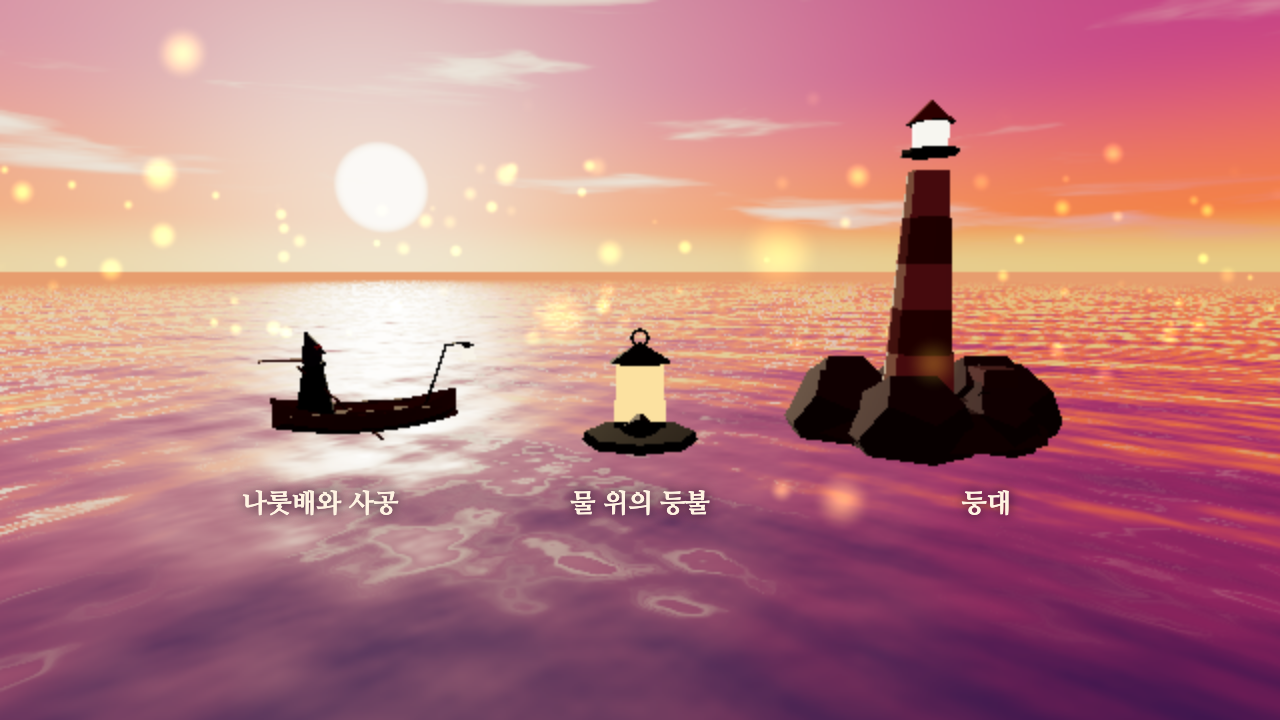
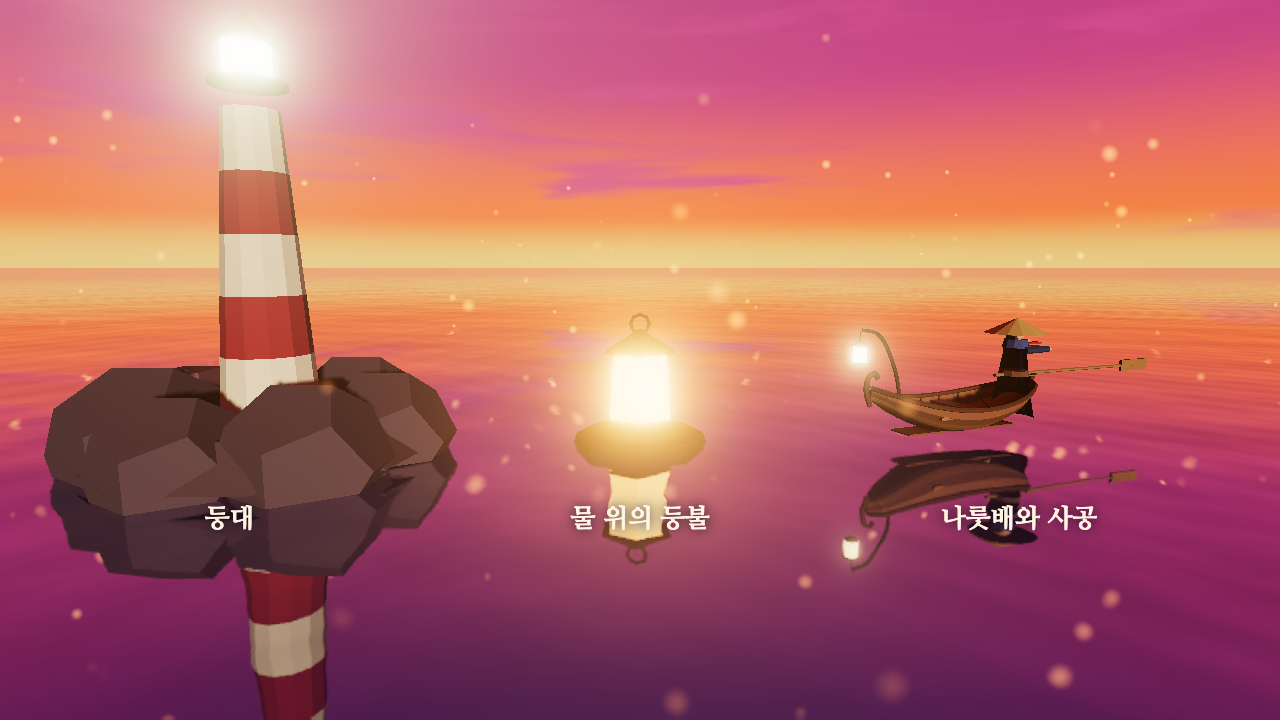
iteration 2: boat and ferryman remodel, dock and post collision
Brief: design/game-brief.md

diff --git a/prototypes/lanterns-at-dusk/index.html b/prototypes/lanterns-at-dusk/index.html
@@ -427,53 +427,93 @@ reedMat.onBeforeCompile = sh => {
   });
   reeds.castShadow = true; heads.castShadow = true; scene3.add(reeds, heads);
 }
-// Old mooring posts in the first basin, and the dock the trip starts from.
+// Old mooring posts in the first basin, and the dock the trip starts from. Both stop the boat.
+const POSTS = [], BOXES = [];
 for (let i = 0; i < 12; i++) {
   const a = hash2(i, 5) * Math.PI * 2, r = 12 + hash2(i, 6) * 22, x = Math.cos(a) * r, z = Math.sin(a) * r;
   if (Math.hypot(x - START.x, z - START.z) < 8) continue;
-  const p = mesh(new THREE.CylinderGeometry(0.16, 0.2, 3 + hash2(i, 7) * 2, 6), C.woodDark, x, 0.6, z, scene3);
+  const p = mesh(new THREE.CylinderGeometry(0.16, 0.2, 3 + hash2(i, 7) * 2, 6), C.woodDark, x, 0.6, z, scene3); POSTS.push([x, z, 0.25]);
   p.rotation.set((hash2(i, 8) - 0.5) * 0.3, 0, (hash2(i, 9) - 0.5) * 0.3);
 }
 {
   const dock = new THREE.Group(); scene3.add(dock);
-  for (let k = 0; k < 9; k++) mesh(new THREE.BoxGeometry(2.4, 0.12, 0.5), k % 2 ? C.wood : 0x6a3e2c, 0, 0.75, 30 + k * 0.6, dock);
-  for (const [x, z] of [[-1.1, 30], [1.1, 30], [-1.1, 34.6], [1.1, 34.6]]) mesh(new THREE.CylinderGeometry(0.12, 0.12, 2.4, 6), C.woodDark, x, 0, z, dock);
+  // The dock reaches from deep water all the way up onto the bank.
+  let shoreZ = 30; while (shoreZ < 70 && waterSd(0, shoreZ, false) < 0.5) shoreZ += 0.5;
+  for (let z = 30, k = 0; z < shoreZ + 1.5; z += 0.6, k++) mesh(new THREE.BoxGeometry(2.4, 0.12, 0.5), k % 2 ? C.wood : 0x6a3e2c, 0, 0.75, z, dock);
+  for (let z = 30; z < shoreZ + 1; z += 2.4) for (const x of [-1.1, 1.1]) mesh(new THREE.CylinderGeometry(0.12, 0.12, 2.6, 6), C.woodDark, x, -0.2, z, dock);
   const post = mesh(new THREE.CylinderGeometry(0.06, 0.06, 2, 5), C.woodDark, 1.1, 1.8, 30, dock);
   mesh(new THREE.OctahedronGeometry(0.12, 0), glowMat(C.glow, 1.2), 1.1, 2.85, 30, dock);
+  BOXES.push([-1.3, 1.3, 29.6, shoreZ + 1.5]);
 }
 
-// The boat and the ferryman, who sculls with one long oar at the stern. Faces -z.
+// The boat and the ferryman. A plank-built skiff with ribs, a curled stem and a stern post; the
+// ferryman wears a wide reed hat and a long coat, and sculls one long oar over the stern. Faces -z.
+function tube(points, r, color, parent, seg = 24) {
+  const curve = new THREE.CatmullRomCurve3(points.map(p => new THREE.Vector3(...p)));
+  return mesh(new THREE.TubeGeometry(curve, seg, r, 6, false), color, 0, 0, 0, parent);
+}
 function makeBoat() {
-  const g = new THREE.Group(), N = 14, L = 1.9, pts = [], idx = [];
-  for (let i = 0; i <= N; i++) {
-    const z = -L + (2 * L * i) / N, t = Math.abs(z) / L, w = 0.72 * Math.pow(Math.max(0, 1 - t * t), 0.6), lift = 0.25 * t * t;
-    for (const [sx, y] of [[-1, 0.42], [-0.85, 0.1], [0, -0.12], [0.85, 0.1], [1, 0.42]]) pts.push(sx * w, y + lift * (y > 0.3 ? 1.4 : 1), z);
+  const g = new THREE.Group(), N = 26, K = 10, L = 1.95;
+  // Hull: cross-sections along the length, one colour per plank strake.
+  const half = z => { const t = Math.abs(z) / L; return { w: 0.74 * Math.pow(Math.max(0, 1 - t * t), 0.55), d: 0.5 * (1 - t * t * 0.55), lift: 0.32 * t * t * (z < 0 ? 1.25 : 1) }; };
+  const P = (i, k) => { const z = -L + 2 * L * i / N, { w, d, lift } = half(z), a = Math.PI * k / K; return [-Math.cos(a) * w, 0.45 + lift - Math.sin(a) * d * (1 - lift * 0.4), z]; };
+  const pos = [], col = [], shades = [new THREE.Color(0x8a5236), new THREE.Color(0x6e3f2a), new THREE.Color(0x9a6040)];
+  for (let i = 0; i < N; i++) for (let k = 0; k < K; k++) {
+    const a = P(i, k), b = P(i + 1, k), c = P(i, k + 1), d = P(i + 1, k + 1), sh = shades[Math.min(k, K - 1 - k) % 3];
+    for (const v of [a, b, c, c, b, d]) { pos.push(...v); col.push(sh.r, sh.g, sh.b); }
   }
-  for (let i = 0; i < N; i++) for (let j = 0; j < 4; j++) { const a = i * 5 + j, b = a + 5; idx.push(a, b, a + 1, a + 1, b, b + 1); }
-  const hull = new THREE.BufferGeometry(); hull.setAttribute('position', new THREE.Float32BufferAttribute(pts, 3)); hull.setIndex(idx); hull.computeVertexNormals();
-  mesh(hull, new THREE.MeshStandardMaterial({ color: C.wood, flatShading: true, side: THREE.DoubleSide, roughness: 0.85 }), 0, 0, 0, g);
-  for (const sx of [-1, 1]) { const rim = mesh(new THREE.BoxGeometry(0.06, 0.06, 3.0), 0x7a4a30, sx * 0.62, 0.45, 0, g); rim.rotation.y = sx * 0.02; }
-  for (const z of [-0.7, 0.5]) mesh(new THREE.BoxGeometry(1.15, 0.06, 0.32), 0x7a4a30, 0, 0.3, z, g);
-  // Lantern pole curving over the bow.
-  const pole = mesh(new THREE.CylinderGeometry(0.03, 0.035, 1.6, 5), C.woodDark, 0, 1.05, -1.45, g); pole.rotation.x = -0.35;
-  const arm = mesh(new THREE.CylinderGeometry(0.025, 0.025, 0.6, 5), C.woodDark, 0, 1.78, -1.95, g); arm.rotation.x = Math.PI / 2;
-  const lamp = new THREE.Group(); lamp.position.set(0, 1.55, -2.2); g.add(lamp);
-  mesh(new THREE.CylinderGeometry(0.13, 0.16, 0.32, 6), glowMat(C.paper, 3), 0, 0, 0, lamp);
-  mesh(new THREE.ConeGeometry(0.17, 0.12, 6), C.woodDark, 0, 0.22, 0, lamp);
-  // The ferryman: a tall hooded figure with a scarf that trails in the wind.
-  const man = new THREE.Group(); man.position.set(0, 0.25, 1.05); g.add(man);
-  mesh(new THREE.CylinderGeometry(0.18, 0.42, 1.25, 7), C.cloak, 0, 0.65, 0, man);
-  mesh(new THREE.CylinderGeometry(0.2, 0.2, 0.18, 7), C.cloakLight, 0, 1.3, 0, man);
-  mesh(new THREE.IcosahedronGeometry(0.17, 1), C.skin, 0, 1.5, -0.04, man);
-  const hood = mesh(new THREE.ConeGeometry(0.26, 0.55, 7), C.cloakLight, 0, 1.66, 0.04, man); hood.rotation.x = 0.25;
-  const scarf = new THREE.Group(); scarf.position.set(0.05, 1.32, 0.12); man.add(scarf);
-  const tail = mesh(new THREE.BoxGeometry(0.14, 0.04, 0.9), C.red, 0, 0, 0.45, scarf);
-  for (const sx of [-1, 1]) { const armM = mesh(new THREE.BoxGeometry(0.11, 0.55, 0.12), C.cloak, sx * 0.24, 1.0, -0.05, man); armM.rotation.x = -0.6; }
-  const oar = new THREE.Group(); oar.position.set(0.15, 1.05, 0.15); man.add(oar);
-  mesh(new THREE.CylinderGeometry(0.03, 0.03, 3.4, 5), 0x8a5a3a, 0, -1.5, 0, oar);
-  mesh(new THREE.BoxGeometry(0.05, 0.6, 0.22), 0x8a5a3a, 0, -3.1, 0, oar);
-  oar.rotation.x = 0.75;
-  return { group: g, lamp, oar, scarf, man };
+  const hull = new THREE.BufferGeometry(); hull.setAttribute('position', new THREE.Float32BufferAttribute(pos, 3));
+  hull.setAttribute('color', new THREE.Float32BufferAttribute(col, 3)); hull.computeVertexNormals();
+  mesh(hull, new THREE.MeshStandardMaterial({ vertexColors: true, flatShading: true, side: THREE.DoubleSide, roughness: 0.8 }), 0, 0, 0, g);
+  // Gunwales along both top edges, ribs inside, floorboards and two thwarts.
+  for (const k of [0, K]) tube(Array.from({ length: N + 1 }, (_, i) => { const p = P(i, k); return [p[0] * 1.02, p[1] + 0.03, p[2]]; }), 0.045, 0x5a3020, g, 40);
+  for (let i = 3; i < N - 2; i += 3) tube(Array.from({ length: K + 1 }, (_, k) => { const p = P(i, k); return [p[0] * 0.93, p[1] + 0.02, p[2]]; }), 0.022, 0x4a2a1c, g, 12);
+  mesh(new THREE.BoxGeometry(0.5, 0.03, 2.6), 0x7a4a30, 0, 0.0, 0.05, g);
+  for (const z of [-0.75, 0.25]) { const z0 = half(z); mesh(new THREE.BoxGeometry(z0.w * 1.9, 0.06, 0.3), 0x9a6644, 0, 0.36, z, g); }
+  // Curled stem at the bow and a stern post with the oarlock.
+  tube([[0, 0.55, -L - 0.02], [0, 0.85, -L - 0.12], [0, 1.08, -L - 0.08], [0, 1.15, -L + 0.06], [0, 1.06, -L + 0.12]], 0.05, 0x5a3020, g, 16);
+  tube([[0, 0.5, L - 0.05], [0, 0.72, L + 0.04], [0, 0.88, L + 0.06]], 0.06, 0x5a3020, g, 8);
+  mesh(new THREE.TorusGeometry(0.07, 0.02, 5, 8), 0x2e1a1e, 0, 0.92, L + 0.06, g).rotation.x = Math.PI / 2;
+  // Cargo: a crate, a sack and a coil of rope.
+  mesh(new THREE.BoxGeometry(0.42, 0.32, 0.36), 0x9a6a42, 0.12, 0.2, -0.3, g).rotation.y = 0.3;
+  const sack = mesh(new THREE.IcosahedronGeometry(0.22, 1), 0xb89a70, -0.2, 0.18, -0.45, g); sack.scale.set(1, 0.7, 1.2);
+  mesh(new THREE.TorusGeometry(0.15, 0.04, 5, 12), 0xc8a874, -0.15, 0.1, 0.62, g).rotation.x = Math.PI / 2;
+  // Lantern pole bending over the bow, the lamp on a short chain.
+  tube([[0.0, 0.4, -1.25], [0.0, 1.2, -1.45], [0.0, 1.85, -1.85], [0.0, 1.95, -2.25]], 0.035, 0x3a2218, g, 16);
+  const lamp = new THREE.Group(); lamp.position.set(0, 1.92, -2.25); g.add(lamp);
+  mesh(new THREE.CylinderGeometry(0.008, 0.008, 0.22, 3), 0x2e1a1e, 0, -0.11, 0, lamp);
+  const body = new THREE.Group(); body.position.y = -0.4; lamp.add(body);
+  mesh(new THREE.CylinderGeometry(0.12, 0.14, 0.3, 6), glowMat(C.paper, 3), 0, 0, 0, body);
+  mesh(new THREE.ConeGeometry(0.17, 0.12, 6), C.woodDark, 0, 0.21, 0, body);
+  mesh(new THREE.CylinderGeometry(0.14, 0.1, 0.05, 6), C.woodDark, 0, -0.17, 0, body);
+  // The stern oar: pivots on the oarlock, blade trailing in the water, handle toward the ferryman.
+  const oar = new THREE.Group(); oar.position.set(0, 0.95, L + 0.06); oar.rotation.order = 'YXZ'; g.add(oar);
+  mesh(new THREE.CylinderGeometry(0.03, 0.035, 4.2, 6), 0x9a6a42, 0, 0, 1.1, oar).rotation.x = Math.PI / 2;
+  mesh(new THREE.BoxGeometry(0.05, 0.24, 0.8), 0x9a6a42, 0, 0, 3.0, oar);
+  const handle = new THREE.Object3D(); handle.position.set(0, 0, -0.95); oar.add(handle);
+  // The ferryman.
+  const man = new THREE.Group(); man.position.set(0, 0.06, 1.5); g.add(man);
+  const coatPts = [[0.001, 1.52], [0.17, 1.5], [0.2, 1.38], [0.24, 1.15], [0.27, 0.85], [0.33, 0.5], [0.4, 0.15], [0.43, 0.02]].map(([r, y]) => new THREE.Vector2(r, y));
+  mesh(new THREE.LatheGeometry(coatPts, 10), C.cloak, 0, 0, 0, man);
+  mesh(new THREE.CylinderGeometry(0.26, 0.29, 0.1, 10), 0x6a4a3a, 0, 0.92, 0, man); // sash
+  const sashTail = mesh(new THREE.BoxGeometry(0.08, 0.4, 0.03), 0x6a4a3a, 0.16, 0.72, 0.24, man); sashTail.rotation.z = 0.15;
+  mesh(new THREE.CylinderGeometry(0.21, 0.24, 0.16, 10), C.cloakLight, 0, 1.5, 0, man); // collar
+  const head = new THREE.Group(); head.position.set(0, 1.68, 0); man.add(head);
+  mesh(new THREE.IcosahedronGeometry(0.15, 1), C.skin, 0, 0, 0, head);
+  mesh(new THREE.BoxGeometry(0.2, 0.08, 0.1), 0x3a2a2a, 0, -0.07, -0.1, head); // beard shadow
+  const hat = mesh(new THREE.ConeGeometry(0.58, 0.3, 14), 0xc8a060, 0, 0.17, 0, head);
+  mesh(new THREE.TorusGeometry(0.17, 0.025, 4, 12), C.red, 0, 0.1, 0, head).rotation.x = Math.PI / 2;
+  const scarf = new THREE.Group(); scarf.position.set(0.06, 1.48, 0.18); man.add(scarf);
+  mesh(new THREE.BoxGeometry(0.13, 0.03, 0.55), C.red, 0, 0, 0.27, scarf);
+  mesh(new THREE.BoxGeometry(0.1, 0.03, 0.45), C.red, -0.1, -0.06, 0.22, scarf).rotation.y = 0.2;
+  // Arms reach for the oar handle each frame (render3D aims them).
+  const arms = [-1, 1].map(sx => {
+    const a = new THREE.Group(); a.position.set(sx * 0.22, 1.38, 0); man.add(a);
+    mesh(new THREE.CylinderGeometry(0.06, 0.075, 0.62, 6), C.cloak, 0, 0, 0.31, a).rotation.x = Math.PI / 2;
+    mesh(new THREE.SphereGeometry(0.06, 6, 4), C.skin, 0, 0, 0.64, a);
+    return a;
+  });
+  return { group: g, lamp, oar, scarf, man, head, arms, handle };
 }
 const boat = makeBoat(); scene3.add(boat.group);
 const boatLight = new THREE.PointLight(0xffa050, 14, 18, 1.5); scene3.add(boatLight);
@@ -527,6 +567,7 @@ for (const [a, b] of BRIDGES) {
 }
 
 // Gates: two stone posts, a beam, and a plank barrier that rises when the basin is all lit.
+const GATE_POSTS = [];
 const gateObjs = GATES.map(gd => {
   const g = new THREE.Group(); g.position.set(gd.x, 0, gd.z); g.rotation.y = Math.atan2(gd.dx, gd.dz); scene3.add(g);
   for (const sx of [-1, 1]) {
@@ -534,6 +575,7 @@ const gateObjs = GATES.map(gd => {
     mesh(new THREE.BoxGeometry(1.7, 0.4, 1.7), C.stoneLight, sx * (CHANNEL_R + 1.2), 6.6, 0, g);
   }
   mesh(new THREE.BoxGeometry(2 * CHANNEL_R + 4.6, 0.8, 1), C.stone, 0, 7.2, 0, g);
+  for (const sx of [-1, 1]) GATE_POSTS.push([gd.x - gd.dz * sx * (CHANNEL_R + 1.2), gd.z + gd.dx * sx * (CHANNEL_R + 1.2), 1.0]);
   const lamps = [-1, 1].map(sx => { const m = glowMat(0xffb060, 0.05); mesh(new THREE.OctahedronGeometry(0.3, 0), m, sx * (CHANNEL_R + 1.2), 7.3, 0, g); return m; });
   const bar = new THREE.Group(); g.add(bar);
   for (let k = -7; k <= 7; k++) mesh(new THREE.BoxGeometry(1.0, 3.6, 0.25), k % 2 ? C.woodDark : C.wood, k * 1.12, 0.9, 0, bar);
@@ -642,16 +684,26 @@ function updateBoat(dt) {
   let [fx, fz] = forward(B.heading), rx = -fz, rz = fx;
   B.x += (fx * B.v + rx * B.side) * dt; B.z += (fz * B.v + rz * B.side) * dt;
   // Shores and gates: the lake's distance field pushes the hull back into open water.
-  const BR = 1.6, d = waterSd(B.x, B.z, true);
-  if (d > -BR) {
-    const e = 0.15, gx = (waterSd(B.x + e, B.z, true) - waterSd(B.x - e, B.z, true)) / (2 * e), gz = (waterSd(B.x, B.z + e, true) - waterSd(B.x, B.z - e, true)) / (2 * e);
-    const gl = Math.hypot(gx, gz) || 1; collide(gx / gl, gz / gl, d + BR);
-  }
-  for (const [hx, hz] of HOUSES) circle(hx, hz, 2.4);
-  for (const l of lanterns) if (l.rise === 0) circle(l.x, l.z, 0.9);
-  function circle(cx, cz, r) {
-    const dx = B.x - cx, dz = B.z - cz, dd = Math.hypot(dx, dz), m = r + 1.2;
-    if (dd < m && dd > 0) collide(-dx / dd, -dz / dd, m - dd);
+  // The hull is three circles (bow, middle, stern) tested against shores, gates, posts and the dock.
+  const HULL = [[1.35, 0.55], [0, 0.85], [-1.35, 0.6]];
+  for (const [off, r] of HULL) {
+    const px = () => B.x + fx * off, pz = () => B.z + fz * off;
+    const d = waterSd(px(), pz(), true);
+    if (d > -r) {
+      const e = 0.15, x0 = px(), z0 = pz();
+      const gx = (waterSd(x0 + e, z0, true) - waterSd(x0 - e, z0, true)) / (2 * e), gz = (waterSd(x0, z0 + e, true) - waterSd(x0, z0 - e, true)) / (2 * e);
+      const gl = Math.hypot(gx, gz) || 1; collide(gx / gl, gz / gl, d + r);
+    }
+    const obstacles = [...HOUSES.map(([x, z]) => [x, z, 2.4]), ...POSTS, ...GATE_POSTS, ...lanterns.filter(l => l.rise === 0).map(l => [l.x, l.z, 0.6])];
+    for (const [cx, cz, cr] of obstacles) {
+      const dx = px() - cx, dz = pz() - cz, dd = Math.hypot(dx, dz), m = cr + r;
+      if (dd < m && dd > 0) collide(-dx / dd, -dz / dd, m - dd);
+    }
+    for (const [x0, x1, z0, z1] of BOXES) {
+      const qx = clamp(px(), x0, x1), qz = clamp(pz(), z0, z1), dx = px() - qx, dz = pz() - qz, dd = Math.hypot(dx, dz);
+      if (dd < r && dd > 0) collide(-dx / dd, -dz / dd, r - dd);
+      else if (dd === 0) { const c = (x0 + x1) / 2, sx = px() < c ? -1 : 1; collide(-sx, 0, (sx < 0 ? px() - x0 : x1 - px()) + r); }
+    }
   }
   function collide(nx, nz, pen) { // n points into the obstacle
     B.x -= nx * pen; B.z -= nz * pen;
@@ -744,10 +796,16 @@ function render3D(mode) {
   const bob = Math.sin(t * 1.3) * 0.05;
   boat.group.position.set(bx, bob, bz); boat.group.rotation.set(Math.sin(t * 1.1) * 0.02 - B.power * 0.02, bh, -B.yawRate * 0.12 + Math.sin(t * 0.9) * 0.025);
   const f = B.phase % 1;
-  boat.oar.rotation.set(0.75 + Math.cos(f * Math.PI * 2) * 0.08, Math.sin(f * Math.PI * 2) * 0.55, 0);
-  boat.man.rotation.y = Math.sin(f * Math.PI * 2) * 0.12;
-  boat.scarf.rotation.set(0.25 + Math.sin(t * 3) * 0.12, Math.sin(t * 2.1) * 0.3 + B.yawRate * 0.5, 0);
-  boat.lamp.rotation.z = Math.sin(t * 1.7) * 0.08;
+  // Sculling: the oar sweeps side to side; the ferryman leans into it and his hands follow the handle.
+  const sw = Math.sin(f * Math.PI * 2), idle = Math.sin(t * 0.8) * 0.06;
+  boat.oar.rotation.set(0.38 + Math.cos(f * Math.PI * 2) * 0.05, (B.power > 0 || f > 0.01 ? sw * 0.38 : idle) - B.yawRate * 0.4, 0);
+  boat.man.rotation.set(-0.06 - B.power * 0.05, -sw * 0.18, sw * 0.05);
+  boat.head.rotation.set(0.05, sw * 0.12 + B.yawRate * 0.4, 0);
+  boat.group.updateMatrixWorld(true);
+  boat.handle.getWorldPosition(tmpV);
+  for (const arm of boat.arms) arm.lookAt(tmpV);
+  boat.scarf.rotation.set(0.2 + Math.sin(t * 3.1) * 0.15 + B.v * 0.03, Math.sin(t * 2.1) * 0.3 + B.yawRate * 0.6, Math.sin(t * 4.3) * 0.1);
+  boat.lamp.rotation.set(B.power * 0.12 + Math.sin(t * 1.3) * 0.05, 0, Math.sin(t * 1.7) * 0.1 + B.yawRate * 0.3);
   boat.lamp.getWorldPosition(tmpV); boatLight.position.copy(tmpV);
   const lampPos = tmpV.clone();
   // Lanterns: bob, glimmer when near and unlit, flicker when lit, rise at the end.
@@ -778,7 +836,7 @@ function render3D(mode) {
   if (mode === 'title') {
     cam.position.set(Math.sin(t * 0.05) * 7, 4.2 + Math.sin(t * 0.13) * 0.4, 40); cam.lookAt(0, 3.5, -40);
   } else if (mode === 'figures') {
-    cam.position.set(600, 3.8, 15); cam.lookAt(600, 1.8, 0);
+    cam.position.set(600, 3.4, -13); cam.lookAt(600, 1.6, 0);
   } else {
     const yaw = camS.prevYaw + Math.atan2(Math.sin(camS.yaw - camS.prevYaw), Math.cos(camS.yaw - camS.prevYaw)) * a;
     const end = state.ending >= 0 ? smooth(0, 9, state.ending) : 0;
@@ -853,7 +911,7 @@ const scenes = {
     update(dt) { state.t += dt; },
     draw() {
       render3D('figures'); ctx.clearRect(0, 0, W, H);
-      lineup.names.forEach((n, i) => { tmpV.set(600 + lineup.xs[i], -0.6, 2.5).project(cam); text(n, (tmpV.x + 1) / 2 * W, (1 - tmpV.y) / 2 * H, 26, '#fff3e2', 'center', SERIF, 700); });
+      lineup.names.forEach((n, i) => { tmpV.set(600 + lineup.xs[i], -0.6, -2.5).project(cam); text(n, (tmpV.x + 1) / 2 * W, (1 - tmpV.y) / 2 * H, 26, '#fff3e2', 'center', SERIF, 700); });
     },
   },
   title: {

diff --git a/design/game-brief.md b/design/game-brief.md
@@ -5,6 +5,7 @@ What the Water Keeps의 노을 호수 같은 분위기로 새로 만들어 봐
 1-4. 기본으로 해줘 (피치 1: 노을 호수 나룻배 여행 · 잔잔하고 아련하게 · 붉은 노을빛 회화풍 · 배 뒤 3인칭 · 장면 2~3개, 5분 한 판)
 After play: 맘에 든다.
 After play: 등불을 어디다 키는거야? 도저히 모르겠어.
+After play: 배하고 사공을 좀 더 개선이 가능해? 그리고 선착장을 마구 통과 하던데?
 
 **Pitch:** 작은 나룻배를 저어 노을 진 호수를 건너며 물 위의 등불을 하나씩 밝히고, 마지막엔 멀리 보이는 등대에 불을 켠다. *(provisional)*
 
@@ -41,6 +42,8 @@ After play: 등불을 어디다 키는거야? 도저히 모르겠어.
 
 ## Features
 - [x] 노 젓기 배 조작: 관성, 회전, 노를 저을 때마다 퍼지는 물결
+- [x] 판자 결이 보이는 나룻배(늑골, 말린 이물, 짐)와 삿갓 쓴 사공이 고물 노를 좌우로 젓는 동작
+- [x] 선착장·말뚝·수문 기둥에 배가 부딪힘
 - [x] 하늘을 비추는 수면 셰이더: 잔물결, 해의 금빛 반사 길, 등불 반사광
 - [x] 장면 3개: 노을 갈대밭, 수상 기둥 마을, 밤의 등대 호수(해가 점점 진다)
 - [x] 장면당 등불 3~4개와 다음 물길을 여는 문

diff --git a/prototypes/lanterns-at-dusk/brief.md b/prototypes/lanterns-at-dusk/brief.md
@@ -5,6 +5,7 @@ What the Water Keeps의 노을 호수 같은 분위기로 새로 만들어 봐
 1-4. 기본으로 해줘 (피치 1: 노을 호수 나룻배 여행 · 잔잔하고 아련하게 · 붉은 노을빛 회화풍 · 배 뒤 3인칭 · 장면 2~3개, 5분 한 판)
 After play: 맘에 든다.
 After play: 등불을 어디다 키는거야? 도저히 모르겠어.
+After play: 배하고 사공을 좀 더 개선이 가능해? 그리고 선착장을 마구 통과 하던데?
 
 **Pitch:** 작은 나룻배를 저어 노을 진 호수를 건너며 물 위의 등불을 하나씩 밝히고, 마지막엔 멀리 보이는 등대에 불을 켠다. *(provisional)*
 
@@ -41,6 +42,8 @@ After play: 등불을 어디다 키는거야? 도저히 모르겠어.
 
 ## Features
 - [x] 노 젓기 배 조작: 관성, 회전, 노를 저을 때마다 퍼지는 물결
+- [x] 판자 결이 보이는 나룻배(늑골, 말린 이물, 짐)와 삿갓 쓴 사공이 고물 노를 좌우로 젓는 동작
+- [x] 선착장·말뚝·수문 기둥에 배가 부딪힘
 - [x] 하늘을 비추는 수면 셰이더: 잔물결, 해의 금빛 반사 길, 등불 반사광
 - [x] 장면 3개: 노을 갈대밭, 수상 기둥 마을, 밤의 등대 호수(해가 점점 진다)
 - [x] 장면당 등불 3~4개와 다음 물길을 여는 문
